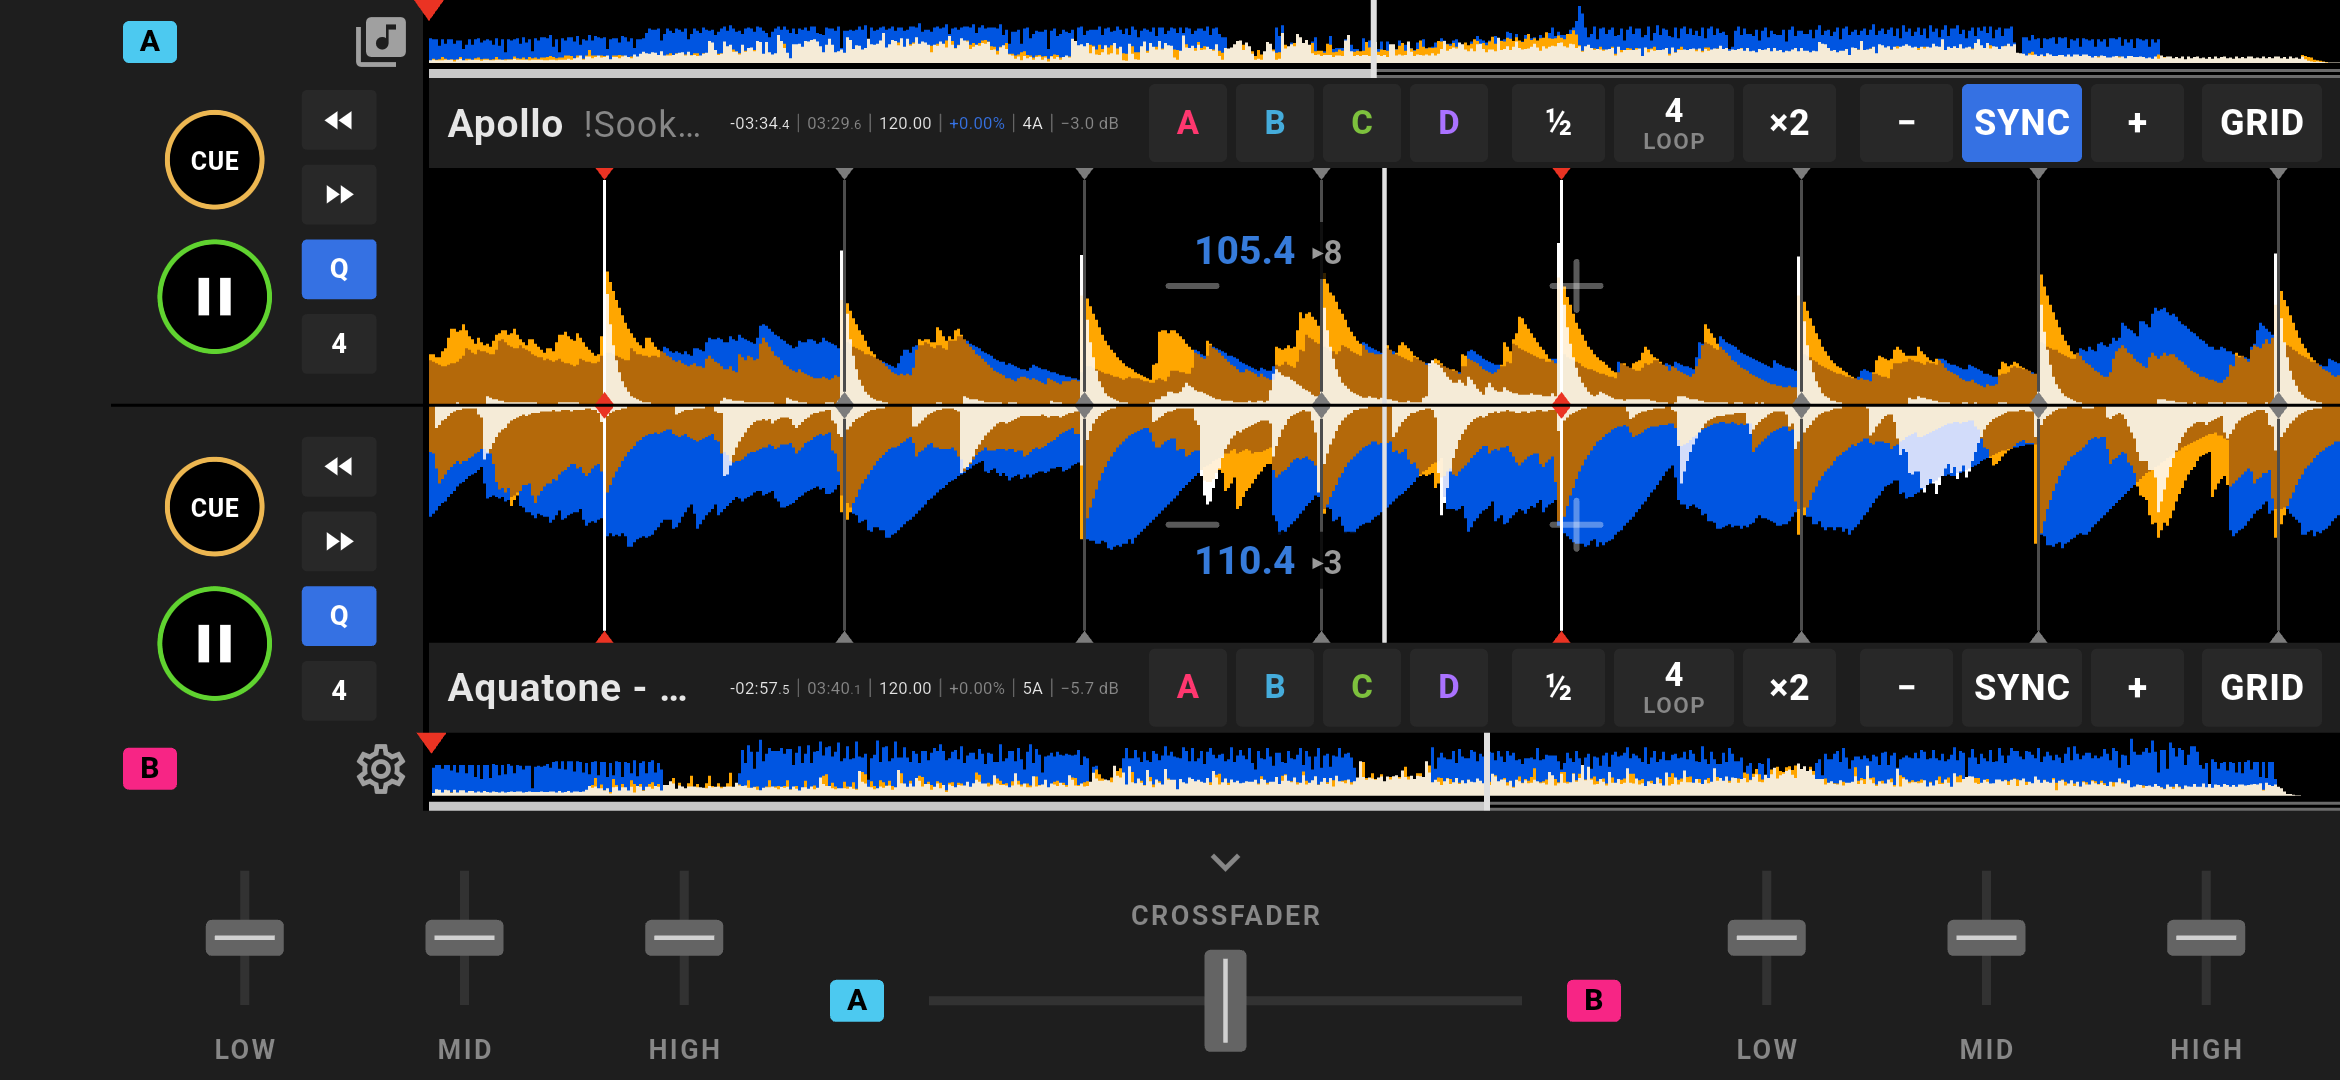
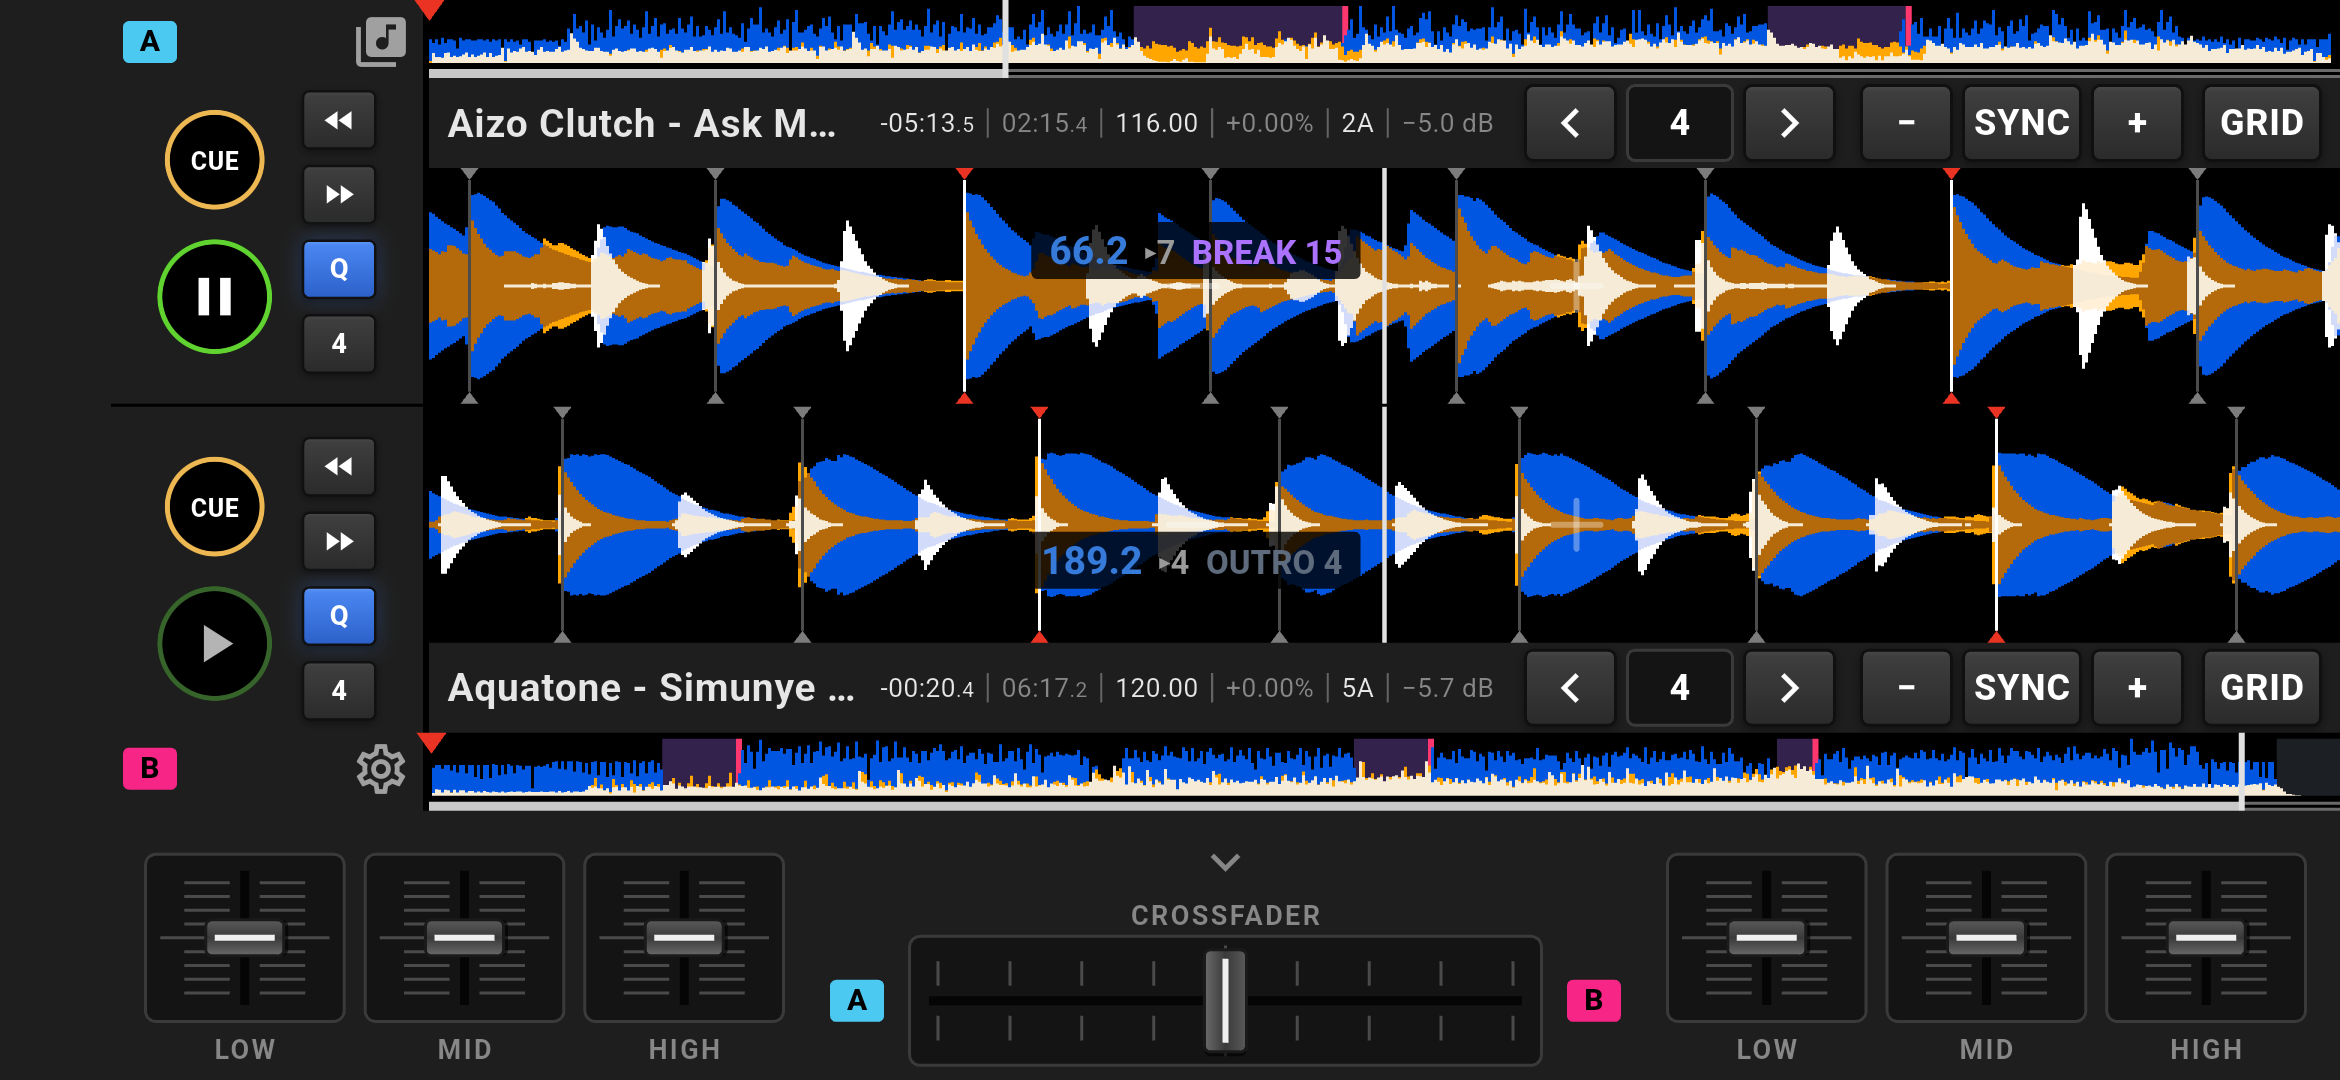
README and screenshots: raised buttons, ‹ 4 › loop, fader wells

diff --git a/README.md b/README.md
@@ -35,7 +35,7 @@ USB out to an external mixer such as the Teenage Engineering EP-136 K.O. Sidekic
 
 ![Settings: Screen (auto, landscape or portrait) and Deck buttons (hot cue pads, Auto Cue)](screenshots/settings.png)
 
-![The restyled internal mixer: EQ faders and crossfader (the filter fader is optional)](screenshots/mixer.png)
+![The internal mixer: EQ faders and crossfader in recessed wells with tick marks and shaded caps (the filter fader is optional)](screenshots/mixer.png)
 
 ![GRID mode on deck A (beat here, bar here, 5 ms, BPM, tap, undo) with the internal mixer hidden](screenshots/grid.png)
 
@@ -100,7 +100,9 @@ Upstream: [issue #13](https://github.com/manueljpy/SideDeck/issues/13),
 
 - **Control row** between each overview and detail: title and artist, then
   `-MM:SS.t` remaining, `MM:SS.t` elapsed, BPM (0.01), tempo %, key; hot cue pads;
-  `½ · LOOP · ×2`; `− · SYNC · +`; `GRID`. Flat rbxport-style buttons that light blue.
+  `‹ 4 ›` (the loop length in a recessed readout between halve and double);
+  `− · SYNC · +`; `GRID`. Buttons are raised and lit from above, and glow blue
+  when on; set hot cues shade in their slot colour.
 - **Transport rail,** in two columns: CUE over PLAY, and beside them beat-jump
   ◀◀ ▶▶, **Q** (quantize) and the jump size; small A/B tags; library (deck A)
   and settings (deck B). A gap at the centre line keeps deck B's CUE clear of
@@ -160,8 +162,8 @@ the camera cutout.
 
 ### Mixer
 
-Restyled after rbxport's neutral mixer: flat faders on thin rails with a centre
-notch, and a blue fill from the centre so any EQ, filter or crossfader move away
+Restyled after rbxport's neutral mixer: each fader sits in a recessed well with
+tick marks, on a dark rail with a centre notch and a shaded cap, and a blue fill from the centre so any EQ, filter or crossfader move away
 from flat is visible. Double-tap a fader to reset it (EQ flat, filter off,
 crossfader centred). In external mixer mode the strip is hidden and the decks
 use the whole screen.
@@ -326,7 +328,7 @@ cue colours and comments. It has only been tested on synthetic files so far.
 | ◀◀ ▶▶ and size box | Rail | Beat jump; tap the box for 1–32 beats |
 | Q | Rail | Quantize on / off |
 | A B C D | Control row | Hot cues: tap set or jump, long-press clear |
-| ½ · LOOP · ×2 | Control row | Halve, toggle, double the loop |
+| ‹ 4 › | Control row | Halve the loop, toggle it (the number lights blue), double it |
 | − · SYNC · + | Control row | BPM ±0.1; beat sync (tap again to release, long-press to type a BPM) |
 | Double-tap a fader | Mixer | Reset EQ / filter / crossfader to centre |
 | KEY · fader · ±% | Rail (when turned on) | Key lock, tempo (double-tap resets), range |
@@ -380,7 +382,7 @@ engine is compiled by CMake during the Xcode build.
 - Internal mixer: 3-band EQ, filter, crossfader
 - BPM / key analysis on load (cached in SQLite); Camelot or musical key labels
 - Beat detector: Queen Mary TempoTrackV2 + Mixxx BeatUtils, refined on kick attacks and checked for drift; key: Queen Mary GetKeyMode
-- Beat sync, loops (½ / ×2), BPM ±0.1, nudge, quantize, beat jump
+- Beat sync, loops (‹ halve / › double), BPM ±0.1, nudge, quantize, beat jump
 - CUE and hot cues A–D, saved per track; waveform scrubbing; pinch zoom
 - GRID mode fixes the beatgrid (beat here, bar here, BPM edit, tap tempo, undo); "check grid" warning
 - rekordbox USB import (tracks, playlists, grids, cues) - untested on a real stick
